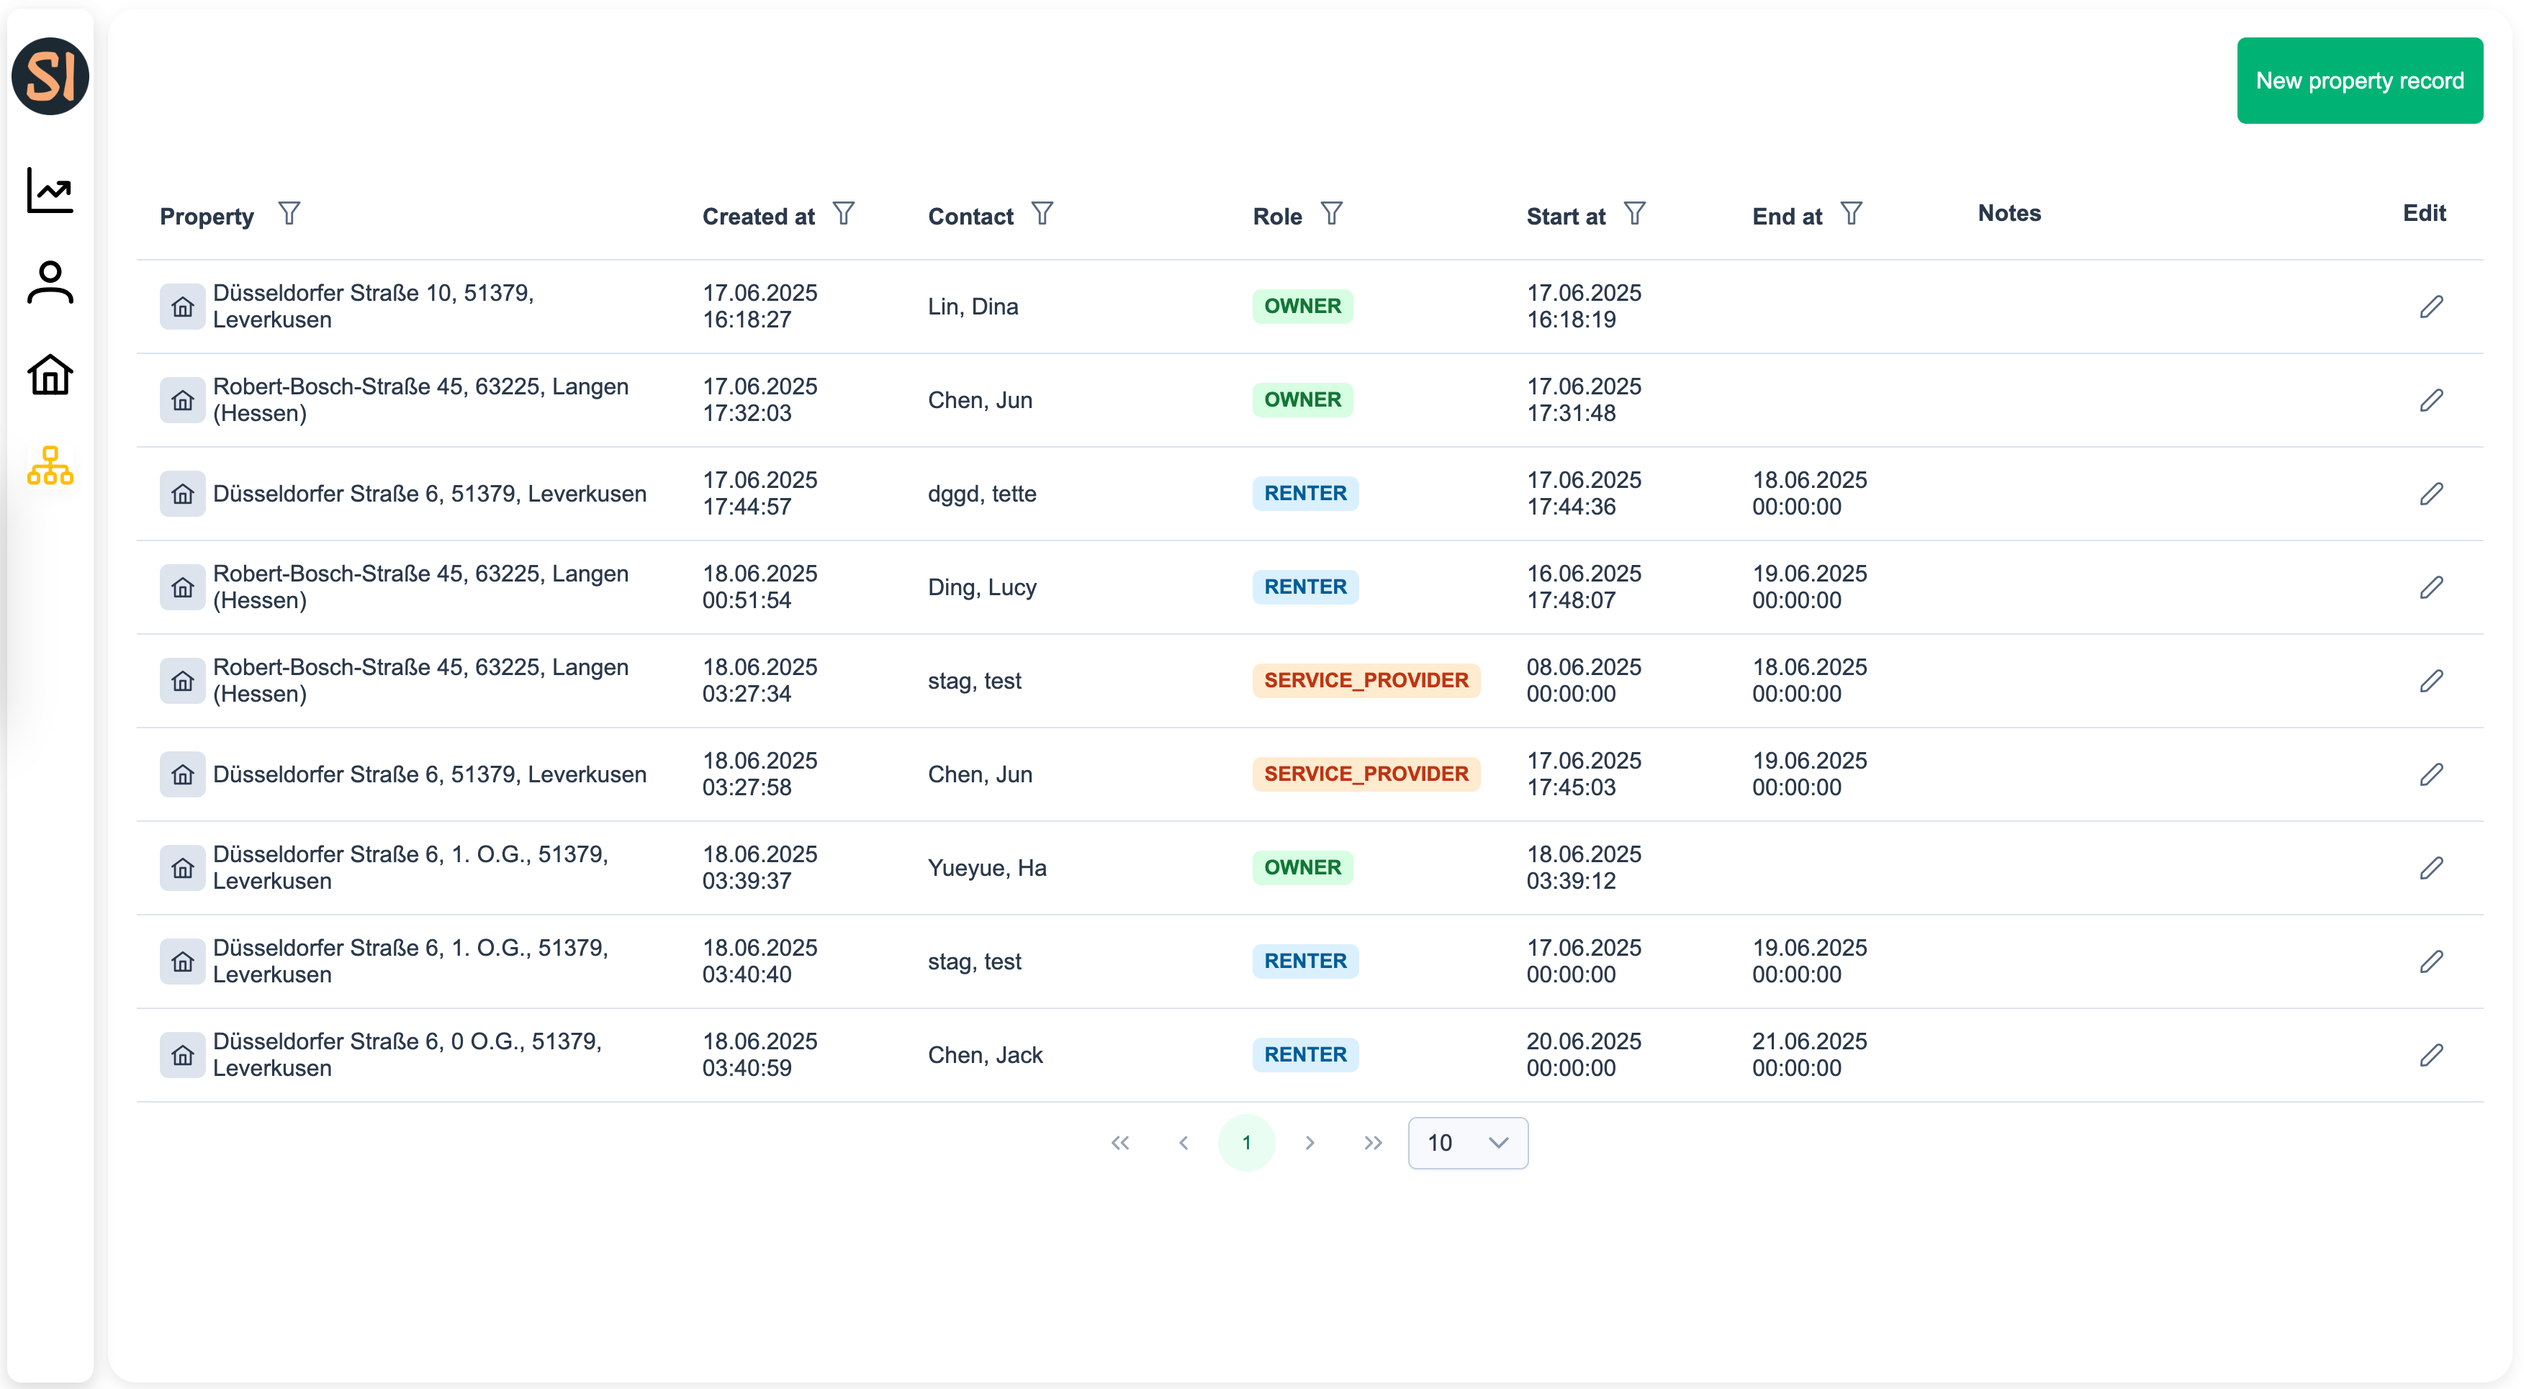
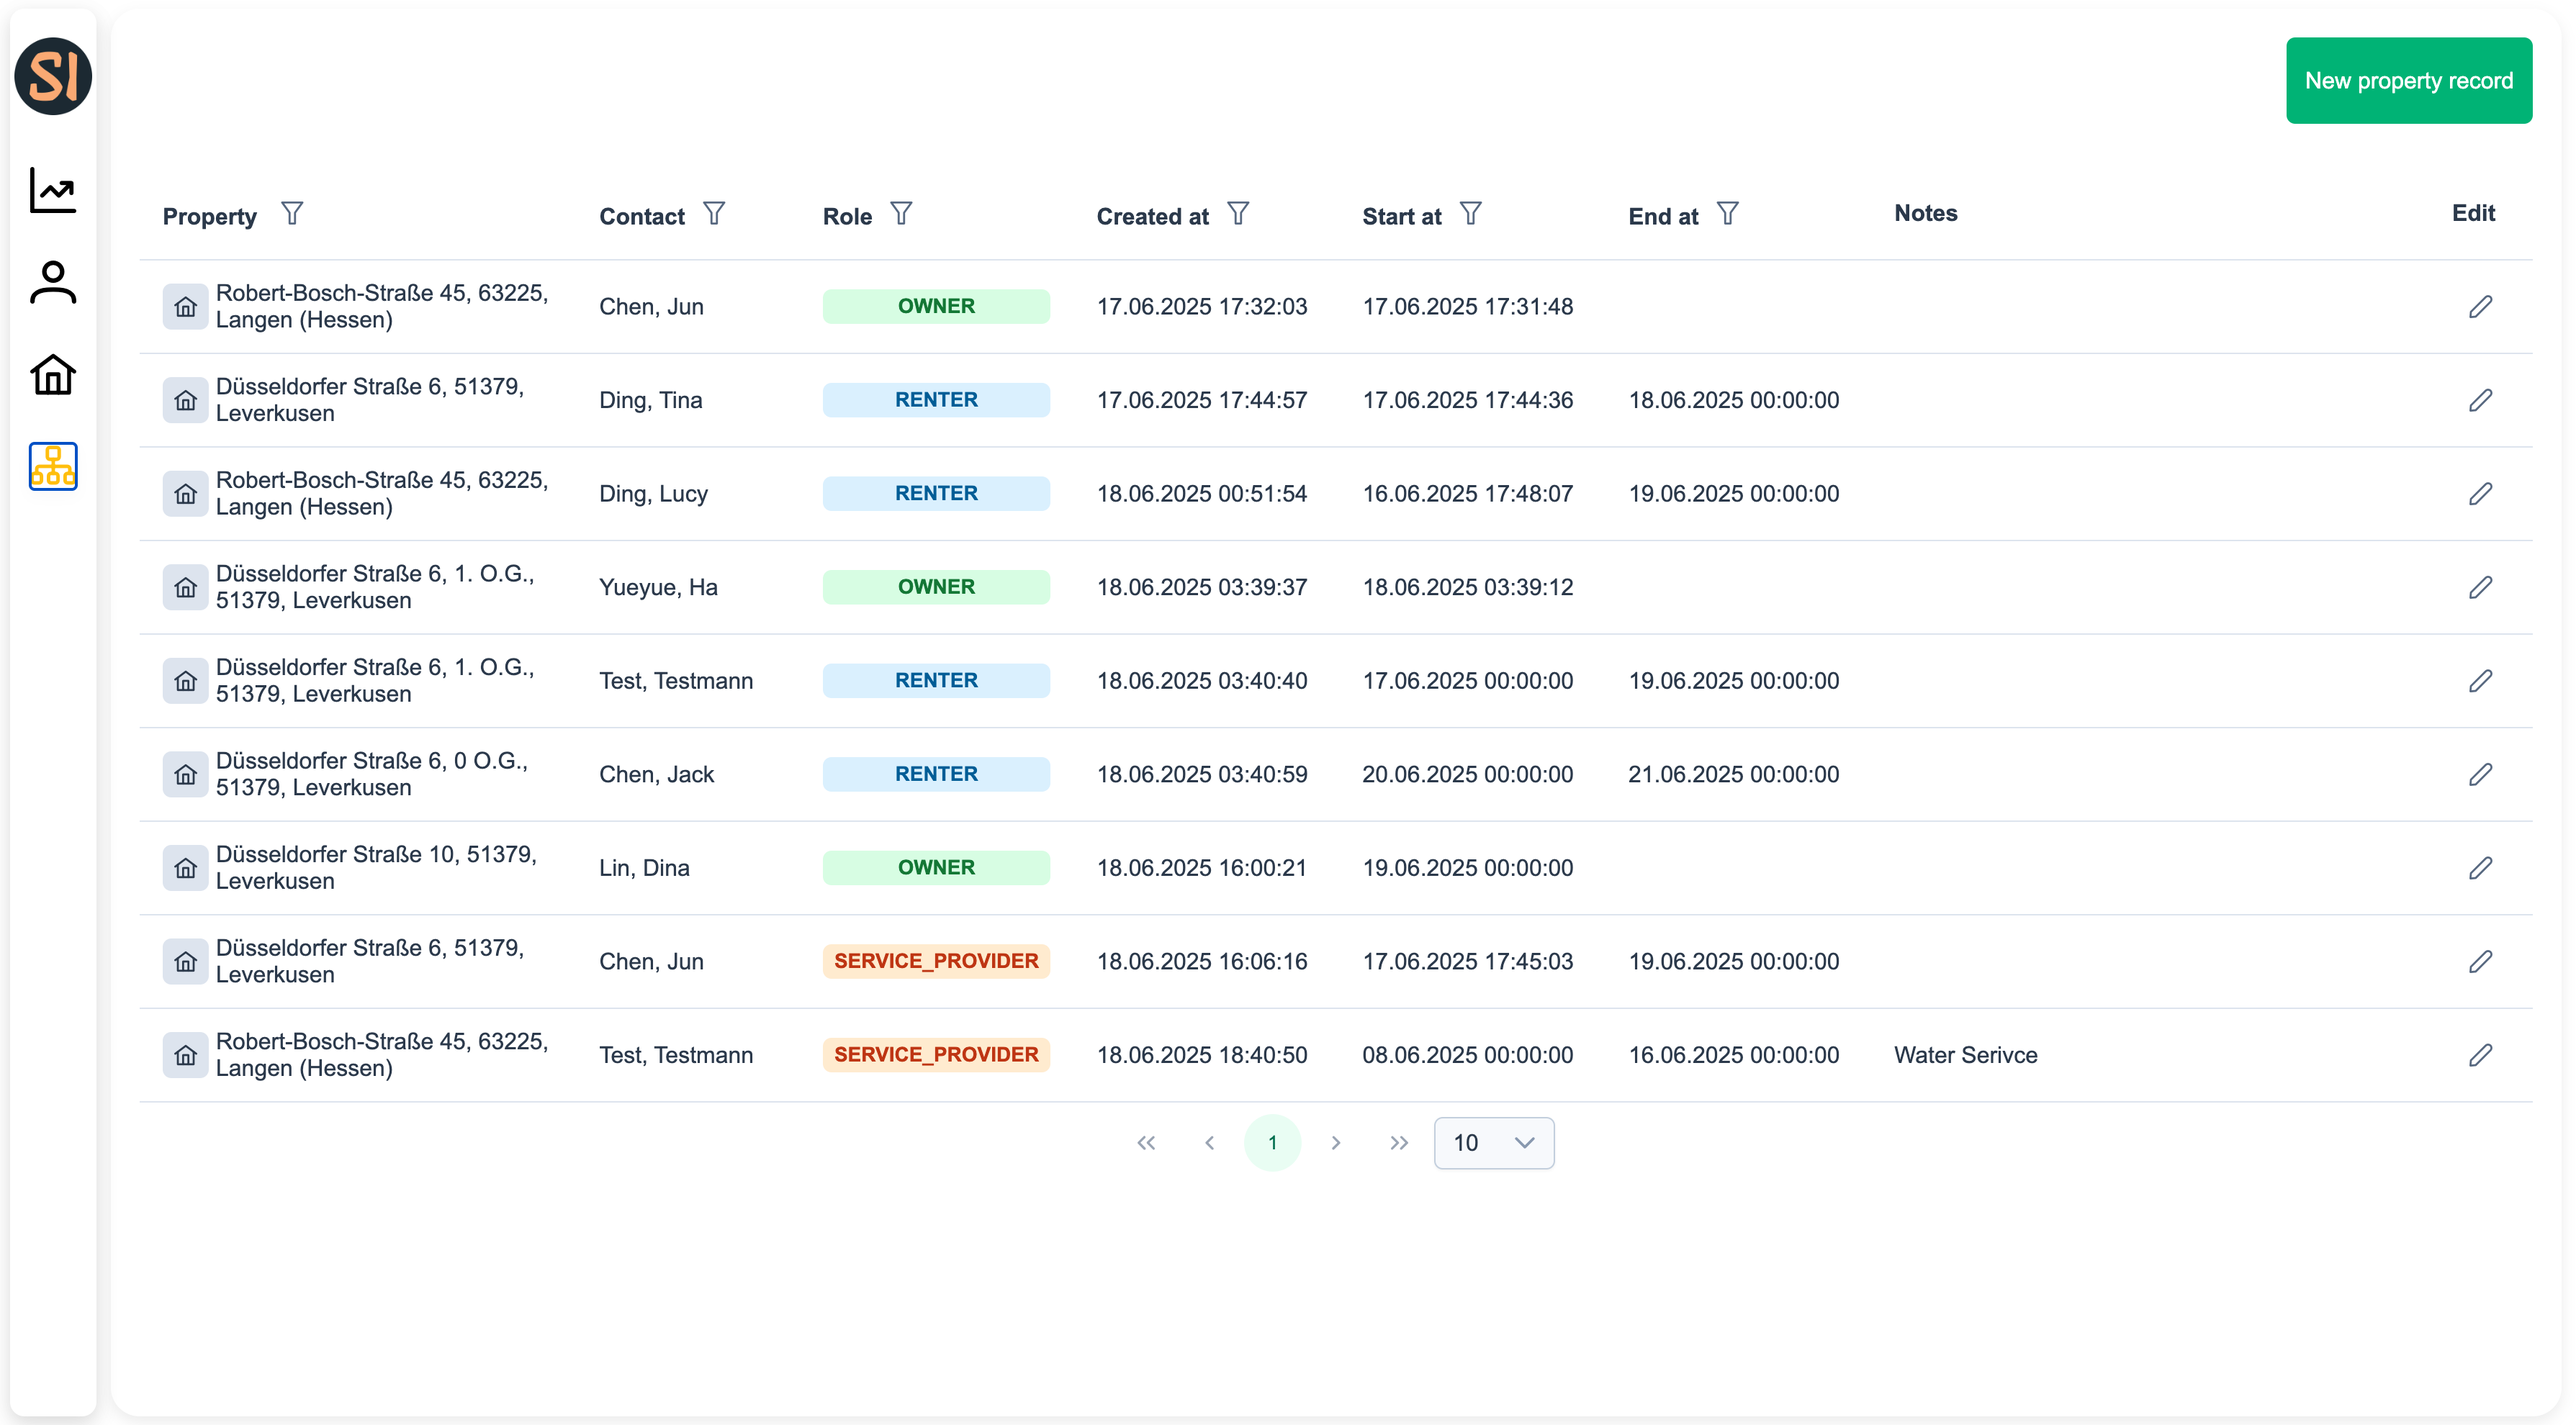
20250618 :: refactor layout and add README

diff --git a/sb-immo-frontend/src/app/components/property-record/property-record.component.html b/sb-immo-frontend/src/app/components/property-record/property-record.component.html
@@ -22,7 +22,7 @@
     >
       <ng-template #header>
         <tr>
-          <th style="width: 25%">
+          <th style="width: 20%">
             Property
             <p-columnFilter
               type="text"
@@ -30,35 +30,35 @@
               display="menu"
             />
           </th>
-          <th style="width: 15%">
+          <th style="width: 10%">
             Contact<p-columnFilter
               type="text"
               field="contactId"
               display="menu"
             />
           </th>
-          <th style="width: 10%">
+          <th style="width: 5%">
             Role<p-columnFilter type="text" field="role" display="menu" />
           </th>
-          <th style="width: 10%">
+          <th style="width: 12%">
             Created at<p-columnFilter
               type="text"
               field="createdAt"
               display="menu"
             />
           </th>
-          <th style="width: 10%">
+          <th style="width: 12%">
             Start at<p-columnFilter
               type="text"
               field="startAt"
               display="menu"
             />
           </th>
-          <th style="width: 10%">
+          <th style="width: 12%">
             End at<p-columnFilter type="text" field="endAt" display="menu" />
           </th>
-          <th style="width: 40%">Notes</th>
-          <th style="width: 5%">Edit</th>
+          <th style="width: 27%">Notes</th>
+          <th style="width: 2%">Edit</th>
         </tr>
       </ng-template>
 

diff --git a/sb-immo-frontend/src/app/components/property/property.component.html b/sb-immo-frontend/src/app/components/property/property.component.html
@@ -35,39 +35,39 @@
   >
     <ng-template pTemplate="header">
       <tr>
-        <th>Avatar</th>
-        <th>
+        <th style="width: 3%">Avatar</th>
+        <th style="width: 30%">
           <div class="flex items-center">
             Property name
             <p-columnFilter type="text" field="propertyName" display="menu" />
           </div>
         </th>
-        <th>
+        <th style="width: 15%">
           <div class="flex items-center">
             Street
             <p-columnFilter type="text" field="street" display="menu" />
           </div>
         </th>
-        <th>
+        <th style="width: 5%">
           <div class="flex items-center">House number</div>
         </th>
-        <th>
+        <th style="width: 5%">
           <div class="flex items-center">Post code</div>
         </th>
-        <th>
+        <th style="width: 10%">
           <div class="flex items-center">City</div>
         </th>
-        <th>
+        <th style="width: 12%">
           <div class="flex items-center">Unit</div>
         </th>
-        <th>
+        <th style="width: 5%">
           <div class="flex items-center">Area</div>
         </th>
-        <th>
+        <th style="width: 5%">
           <div class="flex items-center">Build year</div>
         </th>
-        <th>Status</th>
-        <th>Edit</th>
+        <th style="width: 7%">Status</th>
+        <th style="width: 3%">Edit</th>
       </tr>
     </ng-template>
     <ng-template

diff --git a/sb-immo-frontend/src/styles.scss b/sb-immo-frontend/src/styles.scss
@@ -10,3 +10,9 @@ body {
   overflow: hidden; /* 防止多余滚动 */
   box-sizing: border-box;
 }
+
+.p-tag {
+  display: block; /* 变为块级元素，默认占满父容器宽度 */
+  width: 100%; /* 显式设置 100% 宽度 */
+  box-sizing: border-box; /* 包含 padding 和 border 在内的宽度计算 */
+}

diff --git a/README.md b/README.md
@@ -36,6 +36,10 @@ cd sb-immo-frontend && ng serve
 
 ### UI
 
+##### Relevant contacts
+
+<img src="markdown-image/relevant-contacts.png" width="100%" height="auto"/>
+
 ##### Property
 
 <img src="markdown-image/property.png" width="100%" height="auto"/>
